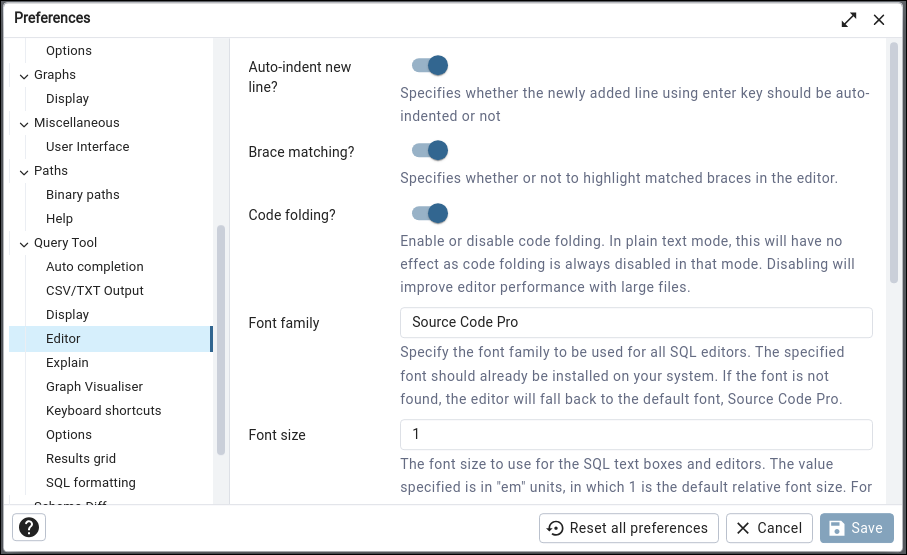
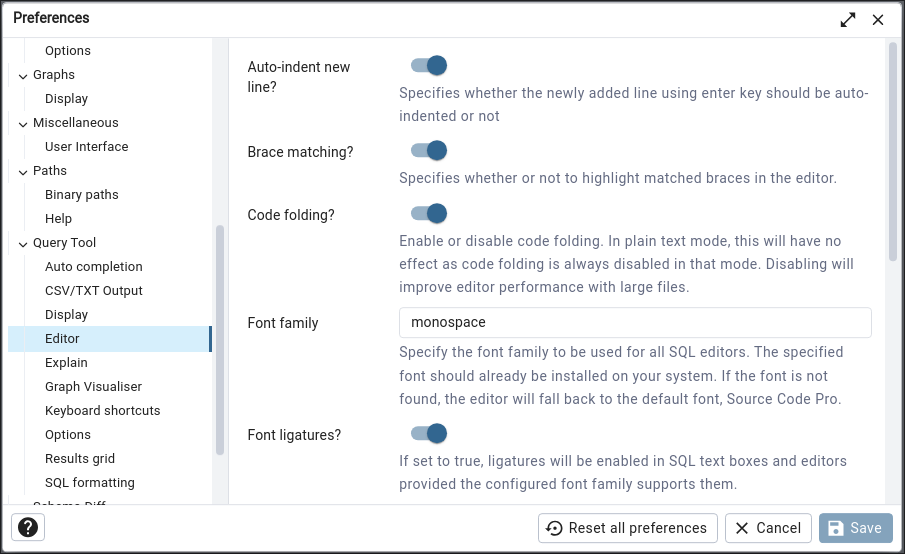
Added support for font ligatures. #8629

diff --git a/web/pgadmin/static/js/components/ReactCodeMirror/components/Editor.jsx b/web/pgadmin/static/js/components/ReactCodeMirror/components/Editor.jsx
@@ -305,6 +305,7 @@ export default function Editor({
     newConfigExtn.push(EditorView.theme({
       '& .cm-scroller .cm-content': {
         fontSize: fontSize,
+        fontVariantLigatures: pref.sql_font_ligatures ? 'normal' : 'none',
         fontFamily: `${pref.sql_font_family}, ${theme.typography.fontFamilySourceCode}`,
       },
       '.cm-gutters': {

diff --git a/web/pgadmin/static/js/Theme/overrides/codemirror.override.js b/web/pgadmin/static/js/Theme/overrides/codemirror.override.js
@@ -14,6 +14,7 @@ export default function cmOverride(theme) {
       height: '100%',
       color: editor.fg,
       backgroundColor: editor.bg,
+      letterSpacing: '0px',
 
       '&.cm-focused': {
         outline: 'none',

diff --git a/web/pgadmin/tools/sqleditor/utils/query_tool_preferences.py b/web/pgadmin/tools/sqleditor/utils/query_tool_preferences.py
@@ -390,6 +390,16 @@ def register_query_tool_preferences(self):
         )
     )
 
+    self.sql_font_ligatures = self.preference.register(
+        'Editor', 'sql_font_ligatures',
+        gettext("Font ligatures?"), 'boolean',
+        False, category_label=PREF_LABEL_DISPLAY,
+        help_str=gettext(
+            'If set to true, ligatures will be enabled in SQL text boxes '
+            'and editors provided the configured font family supports them.'
+        )
+    )
+
     self.sql_font_family = self.preference.register(
         'Editor', 'sql_font_family',
         gettext("Font family"), 'text', 'Source Code Pro',

diff --git a/docs/en_US/preferences.rst b/docs/en_US/preferences.rst
@@ -421,6 +421,10 @@ Use the fields on the *Editor* panel to change settings of the query editor.
   font should already be installed on your system. If the font is not found,
   the editor will fall back to the default font, Source Code Pro.
 
+* When the *Font ligatures?* switch is set to *True*, ligatures will be
+  enabled in SQL text boxes and editors provided the configured font family
+  supports them.
+
 * Use the *Font size* field to specify the font size that will be used in text
   boxes and editors.
 
